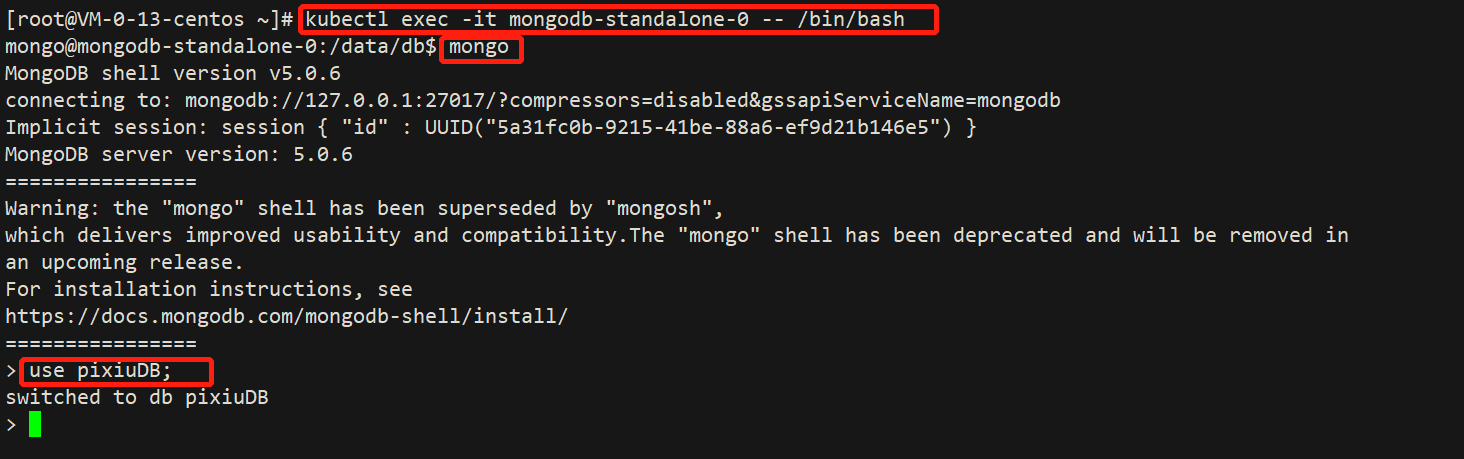
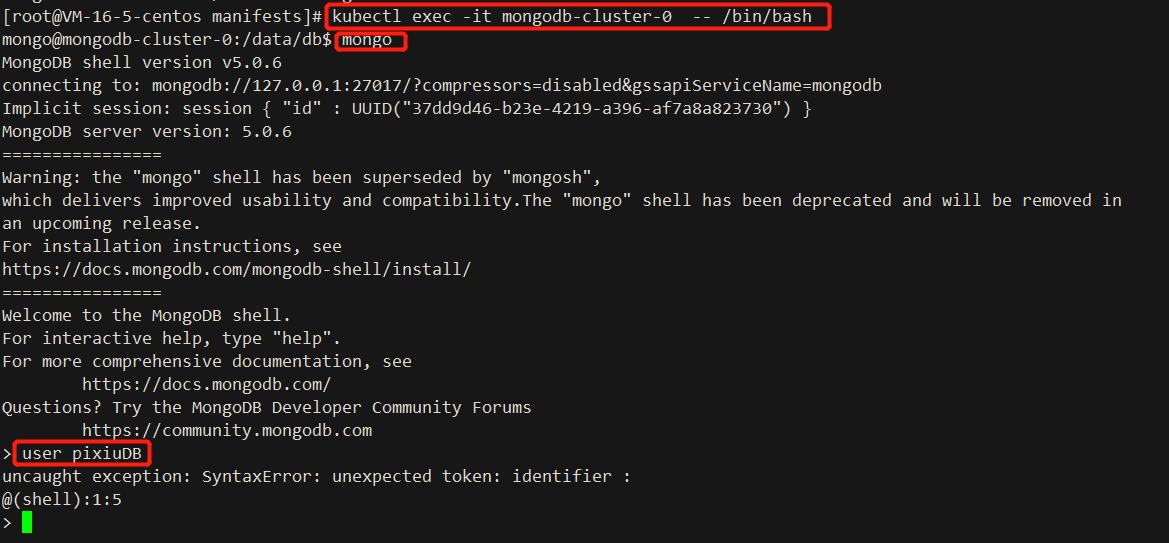
optimization mongodb

Changed region(s): [[0.0, 0.0, 0.9547, 0.976]]

diff --git a/olm/mongodb-operators/README.md b/olm/mongodb-operators/README.md
@@ -45,7 +45,7 @@ https://ot-mongodb-operator.netlify.app/
 ```
 ![img](picture/validation.png)
 ```shell
-1. kubectl exec -it mongodb-standalone-0 -- /bin/bash
+1. kubectl exec -it mongodb-cluster-0  -- /bin/bash
 2. mongo
 3. use pixiuDB
 ```
